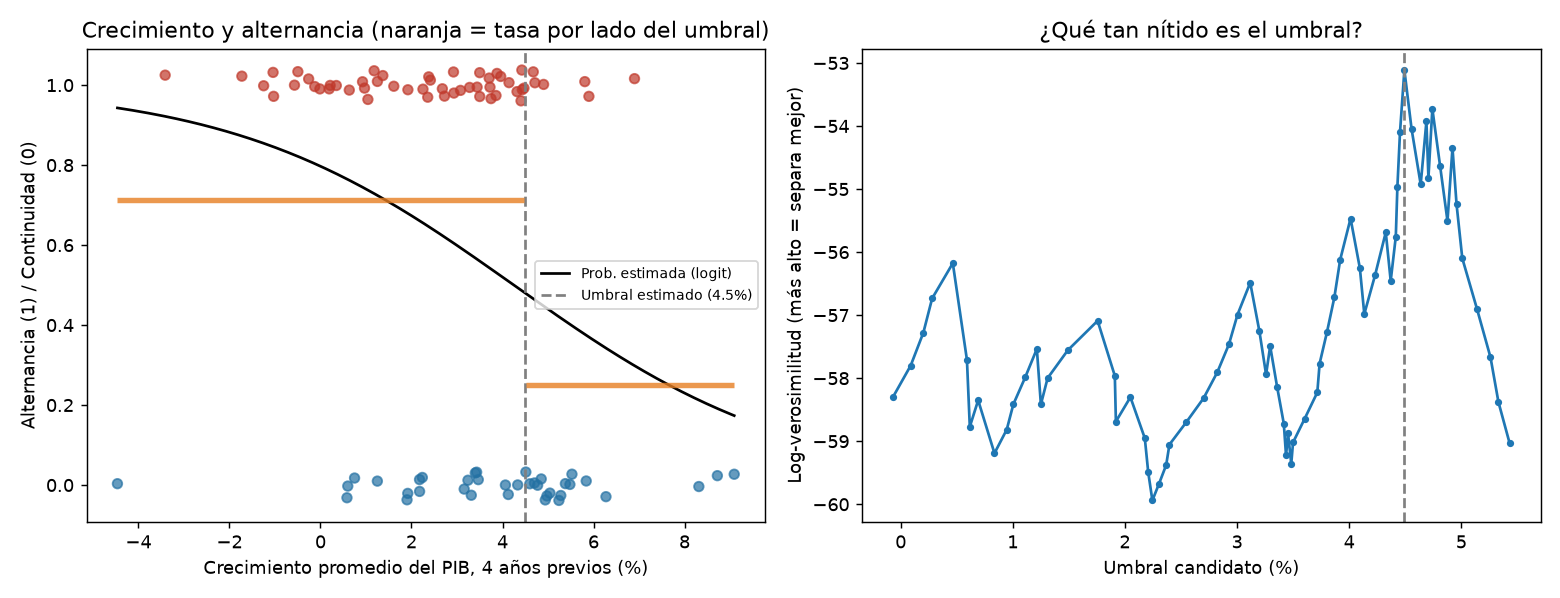
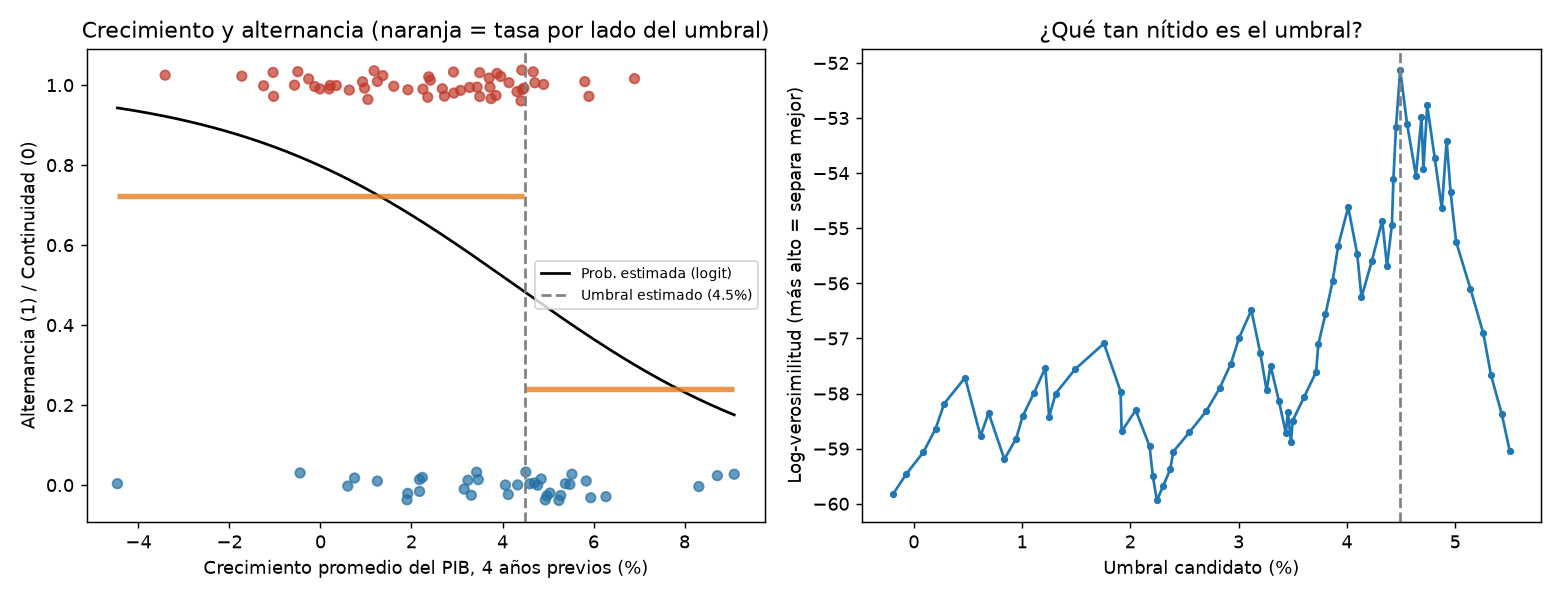
Fix Maddison series breaks (Peru 1993, Paraguay 2002) and expand H2 review
Replace two spurious Maddison growth rates with official figures, rerun the
analysis, and update the README: corrected H1 numbers, slowdown tested at
several magnitudes, recession broken down by reelection and crossed with
the growth threshold.

Claude-Session: https://claude.ai/code/session_01PuWPqgrXU3VYuBqNPw1Fse

diff --git a/notebooks/elecciones_sudamerica/construir_datos.py b/notebooks/elecciones_sudamerica/construir_datos.py
@@ -41,6 +41,14 @@ COMPLEMENTO = {
 }
 
 
+# Saltos de serie en Maddison que no reflejan crecimiento real; se reemplazan
+# por la tasa oficial (BCRP para Perú, BCP para Paraguay).
+CORRECCIONES = {
+    ("Peru", 1993): 4.8,      # Maddison: -16.6
+    ("Paraguay", 2002): 0.0,  # Maddison: +15.4
+}
+
+
 def serie_crecimiento():
     owid = pd.read_csv(URL_OWID, usecols=["country", "year", "gdp"])
     owid = owid[owid.country.isin(PAISES) & (owid.year >= 1975)].dropna()
@@ -48,6 +56,10 @@ def serie_crecimiento():
     owid = owid.sort_values(["pais", "year"])
     owid["crecimiento"] = owid.groupby("pais").gdp.pct_change() * 100
     owid["fuente"] = "Maddison 2023 (OWID)"
+    for (pais, anio), valor in CORRECCIONES.items():
+        fila = (owid.pais == pais) & (owid.year == anio)
+        owid.loc[fila, "crecimiento"] = valor
+        owid.loc[fila, "fuente"] = "Oficial (corrige salto de serie en Maddison)"
     g = owid.rename(columns={"year": "anio"})[["pais", "anio", "crecimiento", "fuente"]]
 
     extra = pd.DataFrame(

diff --git a/notebooks/elecciones_sudamerica/README.md b/notebooks/elecciones_sudamerica/README.md
@@ -20,7 +20,7 @@ python analisis.py          # escribe resultados.txt y figuras/
 | Archivo | Contenido |
 |---|---|
 | `data/elecciones.csv` | Base codificada a mano: incumbente, ganador, `alternancia` (1 = perdió el partido de gobierno), `presidente_candidato` (1 = el presidente en ejercicio buscaba la reelección), `caso_especial` (gobiernos interinos y elecciones anticipadas). |
-| `data/pib_crecimiento.csv` | Crecimiento del PIB real (% anual). Hasta 2022 viene del Maddison Project 2023 (vía Our World in Data); 2023 y 2024 se cargaron a mano con cifras oficiales o del FMI. |
+| `data/pib_crecimiento.csv` | Crecimiento del PIB real (% anual). Hasta 2022 viene del Maddison Project 2023 (vía Our World in Data); 2023 y 2024 se cargaron a mano con cifras oficiales o del FMI. Se corrigieron dos saltos de serie de Maddison con la tasa oficial: Perú 1993 (Maddison −16,6%, oficial 4,8%) y Paraguay 2002 (Maddison +15,4%, oficial 0,0%). |
 | `data/base_analisis.csv` | Las dos cosas cruzadas. |
 
 **Convención temporal:** para una elección en el año *t* se usan los años
@@ -44,21 +44,21 @@ crece más:
 | < 1% | 80% (16/20) |
 | 1-2% | 67% (6/9) |
 | 2-3% | 73% (8/11) |
-| 3-4% | 65% (11/17) |
+| 3-4% | 69% (11/16) |
 | 4-5% | 47% (9/19) |
-| > 5% | 21% (3/14) |
+| > 5% | 20% (3/15) |
 
 El corte que mejor separa los dos grupos está en **≈ 4,5% anual**. Debajo de ese
-nivel el incumbente pierde el 71% de las veces; encima, sólo el 25%. La
-diferencia es estadísticamente significativa (p = 0,003). Para calcular ese
+nivel el incumbente pierde el 72% de las veces; encima, sólo el 24%. La
+diferencia es estadísticamente significativa (p = 0,001). Para calcular ese
 p-valor se repitió todo el procedimiento 5.000 veces con los resultados
 mezclados al azar dentro de cada país, así que ya descuenta que el umbral se
 "buscó" en los datos y que algunos países alternan más que otros.
 
 **Esto es lo que plantea la hipótesis: cuando el crecimiento promedio cae debajo
-de ≈ 4,5%, la alternancia salta de 25% a 71%.** La forma de los datos también
+de ≈ 4,5%, la alternancia salta de 24% a 72%.** La forma de los datos también
 apoya un umbral más que una relación gradual: entre 0% y 4% la tasa de
-alternancia es bastante pareja (65% a 80%) y cae de golpe por encima de 4-5%.
+alternancia es bastante pareja (67% a 80%) y cae de golpe por encima de 4-5%.
 Lo llamativo es que el umbral es alto: un crecimiento "razonable" de 2-3% no
 alcanza para proteger al oficialismo.
 
@@ -66,23 +66,24 @@ alcanza para proteger al oficialismo.
 
 | Debajo de ~4,5% | Elecciones | El oficialismo pierde |
 |---|---|---|
-| Todas | 66 | **71%** (47) |
+| Todas | 65 | **72%** (47) |
 | Sin presidente candidato | 57 | **79%** (45) |
-| Con presidente candidato | 9 | 22% (2) |
+| Con presidente candidato | 8 | 25% (2) |
 
 Debajo del umbral el oficialismo pierde 7 de cada 10 veces, y 8 de cada 10 si
 el presidente no es candidato. La reelección no genera este resultado: es la
 excepción que permitió a algunos oficialismos sobrevivir con poco crecimiento
-(Uribe 2006, Chávez 2000, 2006 y 2012, Maduro 2013, Fujimori 1995, Noboa 2025).
+(Uribe 2006, Chávez 2000, 2006 y 2012, Maduro 2013, Noboa 2025). Encima del
+umbral, los 11 presidentes que fueron por la reelección ganaron.
 
 **¿Cambia el resultado según qué elecciones se incluyan?**
 
 | Base | Elecciones | Debajo de ~4,5% | Encima de ~4,5% | ¿Significativo? |
 |---|---|---|---|---|
-| **Todas** | 90 | pierde el 71% | pierde el 25% | **Sí** (p = 0,003) |
-| Sin interinos ni anticipadas | 75 | 71% | 22% | **Sí** (p = 0,002) |
-| Todas, ajustando por si el presidente era candidato | 90 | +28 puntos de probabilidad de perder | | **Sí** (p = 0,007) |
-| Sacando las reelecciones | 71 | 79% | 43% | No (p = 0,25) |
+| **Todas** | 90 | pierde el 72% | pierde el 24% | **Sí** (p = 0,001) |
+| Sin interinos ni anticipadas | 75 | 73% | 21% | **Sí** (p = 0,001) |
+| Todas, ajustando por si el presidente era candidato | 90 | +28 puntos de probabilidad de perder | | **Sí** (p = 0,005) |
+| Sacando las reelecciones | 71 | 79% | 43% | No (p = 0,14) |
 
 La tercera fila deja las 90 elecciones y descuenta estadísticamente el efecto
 de que el presidente sea candidato. Aun así, estar debajo del umbral suma unos
@@ -96,45 +97,83 @@ Advertencias:
   muestra varios picos cercanos (entre 4% y 5%). Lo más honesto es decir
   "alrededor de 4-5%", no "4,49%".
 * Parte del efecto viene de **reelecciones presidenciales durante el boom de
-  las commodities** (Lula, Evo, Correa, Uribe, Chávez); ver la tabla de arriba.
-  Que el presidente sea candidato resta unos 46 puntos de probabilidad de
-  alternancia: es el factor individual más fuerte de toda la base.
-* Un modelo con escalón ajusta un poco mejor que una curva suave, pero esa
-  comparación favorece al escalón porque el corte se eligió con los mismos
-  datos. Con 90 elecciones no se puede distinguir bien entre "umbral" y
-  "cuanto más crecimiento, mejor para el oficialismo". La curva suave dice que
-  cada punto de crecimiento promedio adicional reduce la probabilidad de
-  alternancia en unos 7 puntos porcentuales.
+  las commodities** (Lula, Evo, Correa, Santos, Cristina); ver las tablas de
+  arriba. Que el presidente sea candidato resta unos 44 puntos de probabilidad
+  de alternancia: es el factor individual más fuerte de toda la base.
+* Un modelo con escalón ajusta mejor que una curva suave, pero esa comparación
+  favorece al escalón porque el corte se eligió con los mismos datos. La curva
+  suave dice que cada punto de crecimiento promedio adicional reduce la
+  probabilidad de alternancia en unos 7 puntos porcentuales.
 
-### Hipótesis 2: la recesión pesa; el frenazo solo, no
+### Hipótesis 2: la recesión sí; la desaceleración no
 
-| Situación en los 2 años previos | Alternancia |
-|---|---|
-| Hubo recesión (algún año negativo) | **75%** (18/24) |
-| Sin recesión | 53% (35/66) |
-| Sólo frenazo (creció menos que antes, pero positivo) | 54% (15/28) |
-| Ni recesión ni frenazo | 53% (20/38) |
+Se probaron dos versiones de "economía que empeora" en los 2 años previos a la
+elección:
+* **Recesión:** al menos uno de esos dos años con crecimiento negativo.
+* **Desaceleración:** el crecimiento promedio de esos dos años es menor que el
+  de los dos anteriores. Se probó con cualquier caída, y también exigiendo que
+  la caída sea de más de 1, 2 o 3 puntos.
 
-* **Recesión:** sube la probabilidad de alternancia en unos 22 puntos
-  (p ≈ 0,05). Si se sacan los gobiernos interinos y las elecciones anticipadas,
-  el efecto llega a 31 puntos (p = 0,02). Se confirma.
-* **Desaceleración sin recesión:** prácticamente no cambia nada (+7 puntos,
-  p = 0,32). Un frenazo de 5% a 3% no le cuesta la elección al oficialismo. No
-  se confirma.
-* **Cuidado:** cuando la recesión entra al modelo junto con el crecimiento
-  promedio de los 4 años y la variable de reelección, su efecto deja de ser
-  significativo. La recesión importa sobre todo porque baja el promedio, no
-  como un castigo extra aparte.
-* El crecimiento de los 2 últimos años parece pesar algo más que el de los 2
-  anteriores (−3 a −5 puntos por cada punto de crecimiento, contra −2 a −3),
-  pero la diferencia no es estadísticamente significativa (p = 0,12 a 0,67).
-  No hay evidencia firme de "memoria corta" del votante.
+**Recesión: se confirma, y con fuerza**
+
+| | Con recesión | Sin recesión | Diferencia | ¿Significativo? |
+|---|---|---|---|---|
+| Todas las elecciones | pierde el **78%** (18/23) | 52% (35/67) | +26 puntos | **Sí** (p = 0,02) |
+| Sin interinos ni anticipadas | **83%** (15/18) | 47% (27/57) | +36 puntos | **Sí** (p = 0,007) |
+| Sin presidente candidato | **89%** (16/18) | 66% (35/53) | +23 puntos | Al límite (p = 0,05) |
+
+Cuando el presidente no es candidato y hubo recesión, el oficialismo perdió 16
+de 18 veces. Las dos excepciones fueron Argentina 2003 (Kirchner, con un
+gobierno interino surgido de la crisis de 2001) y Ecuador 2017 (Moreno, con una
+caída leve de 1,2%). Con el presidente como candidato, la recesión también
+pesa: los únicos dos presidentes que perdieron la reelección en toda la base
+(Macri 2019, Bolsonaro 2022) lo hicieron después de una recesión.
+
+**Desaceleración sin recesión: no se confirma, en ninguna versión**
+
+| Desaceleración en los 2 años previos | Con | Sin |
+|---|---|---|
+| Cualquier caída | pierde el 63% (31/49) | 54% (22/41) |
+| Caída de más de 1 punto | 57% (20/35) | 60% (33/55) |
+| Caída de más de 2 puntos | 53% (16/30) | 62% (37/60) |
+| Caída de más de 3 puntos | 55% (11/20) | 60% (42/70) |
+| Se frenó pero siguió creciendo | 54% (15/28) | 61% (38/62) |
+
+Ninguna diferencia es significativa, y cuanto más fuerte la desaceleración,
+menos se nota (incluso se invierte un poco). La explicación probable: una
+desaceleración fuerte casi siempre viene después de años de mucho crecimiento
+(por ejemplo, de 7% a 3%), y esos gobiernos llegan a la elección con un
+promedio alto que los protege. **Lo que castiga el votante no es que la economía
+crezca menos que antes, sino que deje de crecer.**
+
+**Recesión y umbral juntos**
+
+| | Con recesión | Sin recesión |
+|---|---|---|
+| Debajo de ~4,5% | pierde el 81% (17/21) | 68% (30/44) |
+| Encima de ~4,5% | 50% (1/2) | 22% (5/23) |
+
+Debajo del umbral, una recesión cerca de la elección suma unos 13 puntos más de
+probabilidad de alternancia. Pero cuando se mete la recesión en un mismo modelo
+junto con el promedio de 4 años y la reelección, su efecto propio deja de ser
+significativo: las dos cosas se superponen mucho, porque una recesión baja el
+promedio. Con 90 elecciones no se puede separar bien cuánto pesa cada una.
+
+Otras observaciones:
+* El crecimiento de los 2 últimos años no pesa significativamente más que el de
+  los 2 anteriores (p = 0,23 a 0,81). No hay evidencia firme de "memoria corta"
+  del votante.
+* La definición de recesión ("algún año negativo") cuenta como recesión a
+  Argentina 2011 (−5,5% en 2009, pero +11,3% en 2010). Ese caso es un rebote más
+  que una recesión, y Cristina ganó.
+* El resultado se mantiene si, para las elecciones del segundo semestre, se
+  incluye el crecimiento del propio año electoral (76% contra 51%, p = 0,03).
 
 ### En una frase
 
-El oficialismo sudamericano necesita una economía que crezca fuerte (más de
-4-5% promedio) para sobrevivir; una recesión cerca de la elección lo complica
-claramente, y una simple desaceleración no.
+Debajo de un crecimiento promedio de 4-5% el oficialismo sudamericano pierde
+la mayoría de las veces. Una recesión cerca de la elección lo complica todavía
+más; una simple desaceleración, no.
 
 ## Limitaciones
 
